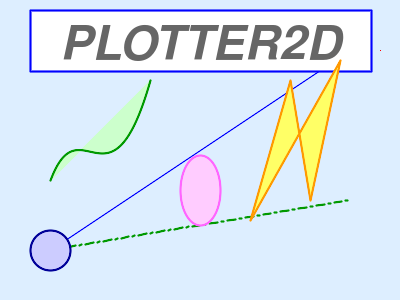
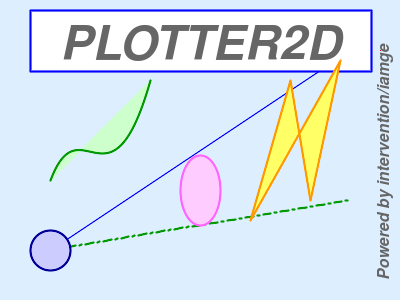
Add text rotation

Changed region(s): [[0.93, 0.15, 0.99, 0.93]]

diff --git a/src/Traits/PlotterTrait.php b/src/Traits/PlotterTrait.php
@@ -130,6 +130,37 @@ trait PlotterTrait
     }
 
     /**
+     * plots a perfect circle on the plotarea
+     *
+     * @param   int|float   $x
+     * @param   int|float   $y
+     * @param   int         $radius (in pix)
+     * @param   string|null $backgroundColor = null
+     * @param   int         $borderWidth = 1
+     * @param   string|null $borderColor = '#000000'
+     * @return  self
+     */
+    public function plotPerfectCircle(
+        int|float $x,
+        int|float $y,
+        int $radius,    // in pix
+        string|null $backgroundColor = null,
+        int $borderWidth = 1,
+        string|null $borderColor = '#000000',
+    ) {
+        $center = $this->transformer->getCoord($x, $y);
+        $this->drawCircle(
+            $center['x'],
+            $center['y'],
+            $radius,
+            $backgroundColor,
+            $borderWidth,
+            $borderColor,
+        );
+        return $this;
+    }
+
+    /**
      * plots an ellipse
      *
      * @param   int|float   $x
@@ -226,6 +257,9 @@ trait PlotterTrait
      * @param   string      $fontColor = ''
      * @param   string      $align = 'left'
      * @param   string      $valign = 'bottom'
+     * @param   int|float   $angle = 0
+     * @param   int         $offsetX = 0
+     * @param   int         $offsetY = 0
      * @return  self
      */
     public function plotText(
@@ -237,6 +271,9 @@ trait PlotterTrait
         string $fontColor = '',
         string $align = 'left',   // 'right', 'center', 'left'(default)
         string $valign = 'bottom',  // 'top', 'middle', 'bottom'(default)
+        int|float $angle = 0,   // degrees to rotate the text counterclockwise
+        int|float $offsetX = 0, // x-offset after rotation from left edge
+        int|float $offsetY = 0, // y-offset after rotation from top edge
     ) {
         $pos = $this->transformer->getCoord($x, $y);
         $this->drawText(
@@ -248,6 +285,9 @@ trait PlotterTrait
             fontColor: $fontColor,
             align: $align,
             valign: $valign,
+            angle: $angle,
+            offsetX: $this->transformer->getSpanX($offsetX),
+            offsetY: $this->transformer->getSpanY($offsetY),
         );
         return $this;
     }

diff --git a/tests/Enums/PositionTest.php b/tests/Enums/PositionTest.php
@@ -17,7 +17,7 @@ final class PositionTest extends TestCase
     protected array $positions = [
         'Top' => 'top',
         'Middle' => 'middle',
-        'Bottom' => 'Bottom',
+        'Bottom' => 'bottom',
         'Left' => 'left',
         'Center' => 'center',
         'Right' => 'right',
@@ -46,5 +46,33 @@ final class PositionTest extends TestCase
             $enum = Position::get($value);
             $this->assertSame($key, $enum->name);
         }
+    }
+
+    public static function provides_composit_can_return_correct_composit_position(): array
+    {
+        return [
+            ['align' => '', 'valign' => '', 'expected' => null, ],
+            ['align' => 'left', 'valign' => '', 'expected' => null, ],
+            ['align' => '', 'valign' => 'top', 'expected' => null, ],
+            ['align' => 'middle', 'valign' => 'top', 'expected' => null, ],
+            ['align' => 'center', 'valign' => 'center', 'expected' => null, ],
+            ['align' => 'left', 'valign' => 'upper', 'expected' => null, ],
+            ['align' => 'left', 'valign' => 'lower', 'expected' => null, ],
+            ['align' => 'left', 'valign' => 'top', 'expected' => 'top-left', ],
+            ['align' => 'center', 'valign' => 'top', 'expected' => 'top', ],
+            ['align' => 'right', 'valign' => 'top', 'expected' => 'top-right', ],
+            ['align' => 'left', 'valign' => 'middle', 'expected' => 'left', ],
+            ['align' => 'center', 'valign' => 'middle', 'expected' => 'center', ],
+            ['align' => 'right', 'valign' => 'middle', 'expected' => 'right', ],
+            ['align' => 'left', 'valign' => 'bottom', 'expected' => 'bottom-left', ],
+            ['align' => 'center', 'valign' => 'bottom', 'expected' => 'bottom', ],
+            ['align' => 'right', 'valign' => 'bottom', 'expected' => 'bottom-right', ],
+        ];
+    }
+
+    #[DataProvider('provides_composit_can_return_correct_composit_position')]
+    public function test_composit_can_return_correct_composit_position(string $align, string $valign, string|null $expected): void
+    {
+        $this->assertSame($expected, Position::composit($align, $valign));
     }
 }

diff --git a/src/Traits/DrawerTrait.php b/src/Traits/DrawerTrait.php
@@ -9,6 +9,7 @@ use Intervention\Image\Geometry\Factories\LineFactory;
 use Intervention\Image\Geometry\Factories\PolygonFactory;
 use Intervention\Image\Geometry\Factories\RectangleFactory;
 use Intervention\Image\Typography\FontFactory;
+use Macocci7\PhpPlotter2d\Enums\Position;
 
 trait DrawerTrait
 {
@@ -462,6 +463,9 @@ trait DrawerTrait
      * @param   string  $fontColor = ''
      * @param   string  $align = 'left'
      * @param   string  $valign = 'bottom'
+     * @param   int|float   $angle = 0
+     * @param   int         $offsetX = 0
+     * @param   int         $offsetY = 0
      * @return  self
      */
     public function drawText(
@@ -473,6 +477,9 @@ trait DrawerTrait
         string $fontColor = '',
         string $align = 'left',   // 'right', 'center', 'left'(default)
         string $valign = 'bottom',  // 'top', 'middle', 'bottom'(default)
+        int|float $angle = 0,   // degrees to rotate the text counterclockwise
+        int $offsetX = 0,   // x-offset after rotation from left edge
+        int $offsetY = 0,   // y-offset after rotation from top edge
     ) {
         if ($fontSize === 0) {
             $fontSize = $this->fontSize;
@@ -483,7 +490,11 @@ trait DrawerTrait
         if (!$this->isColorCode($fontColor)) {
             $fontColor = $this->fontColor;
         }
-        $this->image->text(
+        $image = $this->imageManager->create(
+            $this->size['width'],
+            $this->size['height'],
+        );
+        $image->text(
             $text,
             $x,
             $y,
@@ -501,7 +512,14 @@ trait DrawerTrait
                 $font->color($fontColor);
                 $font->align($align);
                 $font->valign($valign);
-            }
+            },
+        );
+        $image->rotate($angle);
+        $this->image->place(
+            element: $image,
+            position: Position::composit($align, $valign),
+            offset_x: $offsetX,
+            offset_y: $offsetY,
         );
         return $this;
     }

diff --git a/src/Enums/Position.php b/src/Enums/Position.php
@@ -10,10 +10,31 @@ enum Position: string
 
     case Top = 'top';
     case Middle = 'middle';
-    case Bottom = 'Bottom';
+    case Bottom = 'bottom';
     case Left = 'left';
     case Center = 'center';
     case Right = 'right';
     case Upper = 'upper';
     case Lower = 'lower';
+
+    public static function composit(string $align, string $valign)
+    {
+        $h = self::get($align);
+        $v = self::get($valign);
+        if (is_null($h) || is_null($v)) {
+            return null;
+        }
+        return match ([$h, $v]) {
+            [self::Left, self::Top] => 'top-left',
+            [self::Center, self::Top] => 'top',
+            [self::Right, self::Top] => 'top-right',
+            [self::Left, self::Middle] => 'left',
+            [self::Center, self::Middle] => 'center',
+            [self::Right, self::Middle] => 'right',
+            [self::Left, self::Bottom] => 'bottom-left',
+            [self::Center, self::Bottom] => 'bottom',
+            [self::Right, self::Bottom] => 'bottom-right',
+            default => null,
+        };
+    }
 }

diff --git a/examples/DrawOnCanvas.php b/examples/DrawOnCanvas.php
@@ -35,4 +35,17 @@ $canvas
         borderColor: '#009900',
     )
     ->drawText('PLOTTER2D', 60, 60, fontColor: '#666666', fontSize: 48, fontPath: $fontPath)
+    ->drawText(
+        text: 'Powered by intervention/iamge',
+        x: 80,
+        y: 20,
+        fontColor: '#666666',
+        fontSize: 16,
+        fontPath: $fontPath,
+        align: 'left',
+        valign: 'top',
+        angle: 90,
+        offsetX: 360,
+        offsetY: -40,
+    )
     ->save('img/DrawOnCanvas.png');

diff --git a/examples/PlotWithinPlotarea.php b/examples/PlotWithinPlotarea.php
@@ -31,6 +31,7 @@ $canvas
     ->plotBox(4, 3, 6, 2, '#ffffcc', 1, '#0000ff')
     ->plotBox(0.5, 4.5, 2.5, 3.5, '#ffcccc', 1, '#ff0000', [8, 4, 2, 4])
     ->plotCircle(5, -2.5, 1.5, '#ccccff', 1, '#0000ff')
+    ->plotPerfectCircle(1.5, 1.5, 8, '#ff0000', 1, '#ff0000')
     ->plotEllipse(-3, 4.5, 1.5, 3, '#ffccff', 1, '#ff00ff')
     ->plotPolygon(
         points: [[-4, -1], [-3, 2.5], [-2, 0.5], [-1, 4]],

diff --git a/README.md b/README.md
@@ -241,6 +241,9 @@ draws text.
 |$fontColor|string||'#000000|'#009900'|font color (in hex format)|
 |$align|string||'left'|'center'|border width (in pixel)|
 |$valign|string||'bottom'|'middle'|border color (in hex format)|
+|$angle|int\float||0|-23.4|degrees to rotate (counterclockwise)|
+|$offsetX|int\float||0|3.5|x-offset from left edge (after rotation)|
+|$offsetY|int\float||0|-1.5|y-offset from top edge (after rotation)|
 
 ### 5.2. Handling Plotarea
 
@@ -296,6 +299,7 @@ Available `plot*` methods to plot figures within the `Plotarea`:
 - [plotLine()](#plotline)
 - [plotBox()](#plotbox)
 - [plotCircle()](#plotcircle)
+- [plotPerfectCircle()](#plotperfectcircle)
 - [plotEllipse()](#plotellipse)
 - [plotPolygon()](#plotpolygon)
 - [plotBezier()](#plotbezier)
@@ -368,6 +372,8 @@ polots a box within the `Plotarea`.
 plots a ciele within the `Plotarea`.
 
 > Note: If the `viewport aspect ratio` and the `plotarea aspect ratio` are not equal, `plotCircle()` draws an ellipse.
+>
+> Use [plotPerfectCircle()](#plotperfectcircle) if you want to plot a perfect circle regardless of transformation rate.
 
 > Note: `null` value for a color code results in transparent.
 
@@ -376,6 +382,23 @@ plots a ciele within the `Plotarea`.
 |$x|int\|float|required||-3.5|x-coordinate of the center|
 |$y|int\|float|required||4.5|y-coordinate of the center|
 |$radius|int\|float|required||2.5|radius|
+|$backgroundColor|string\|null||`null`|'#cccccc'|background color (in hex format)|
+|$borderWidth|int||1|2|border width (in pixel)|
+|$borderColor|string\|null||'#000000'|'#0000ff'|border color (in hex format)|
+
+#### plotPerfectCircle()
+
+plots a perfect ciele within the `Plotarea` regardless of transformation rate.
+
+> Note: Specify the radius in pix.
+
+> Note: `null` value for a color code results in transparent.
+
+|parmas|type|required|default|example|description|
+|:---|:---|:---|:---|:---:|:---|
+|$x|int\|float|required||-3.5|x-coordinate of the center|
+|$y|int\|float|required||4.5|y-coordinate of the center|
+|$radius|int|required||2|radius (in pix)|
 |$backgroundColor|string\|null||`null`|'#cccccc'|background color (in hex format)|
 |$borderWidth|int||1|2|border width (in pixel)|
 |$borderColor|string\|null||'#000000'|'#0000ff'|border color (in hex format)|
@@ -436,6 +459,9 @@ plots text within the `Plotarea`.
 |$fontColor|string||'#000000'|'#666666'|font color (in hex format)|
 |$align|string||'left'|'center'|hirizontal align|
 |$valign|string||'bottom'|'middle'|vertical align|
+|$angle|int\|float||0|-23.4|degrees to rotate (counterclockwise)|
+|$offsetX|int\|float||0|3.5|x-offset from left edge (after rotation)|
+|$offsetY|int\|float||0|-1.5|y-offset from top edge (after rotation)|
 
 #### plotGridHorizon()
 
